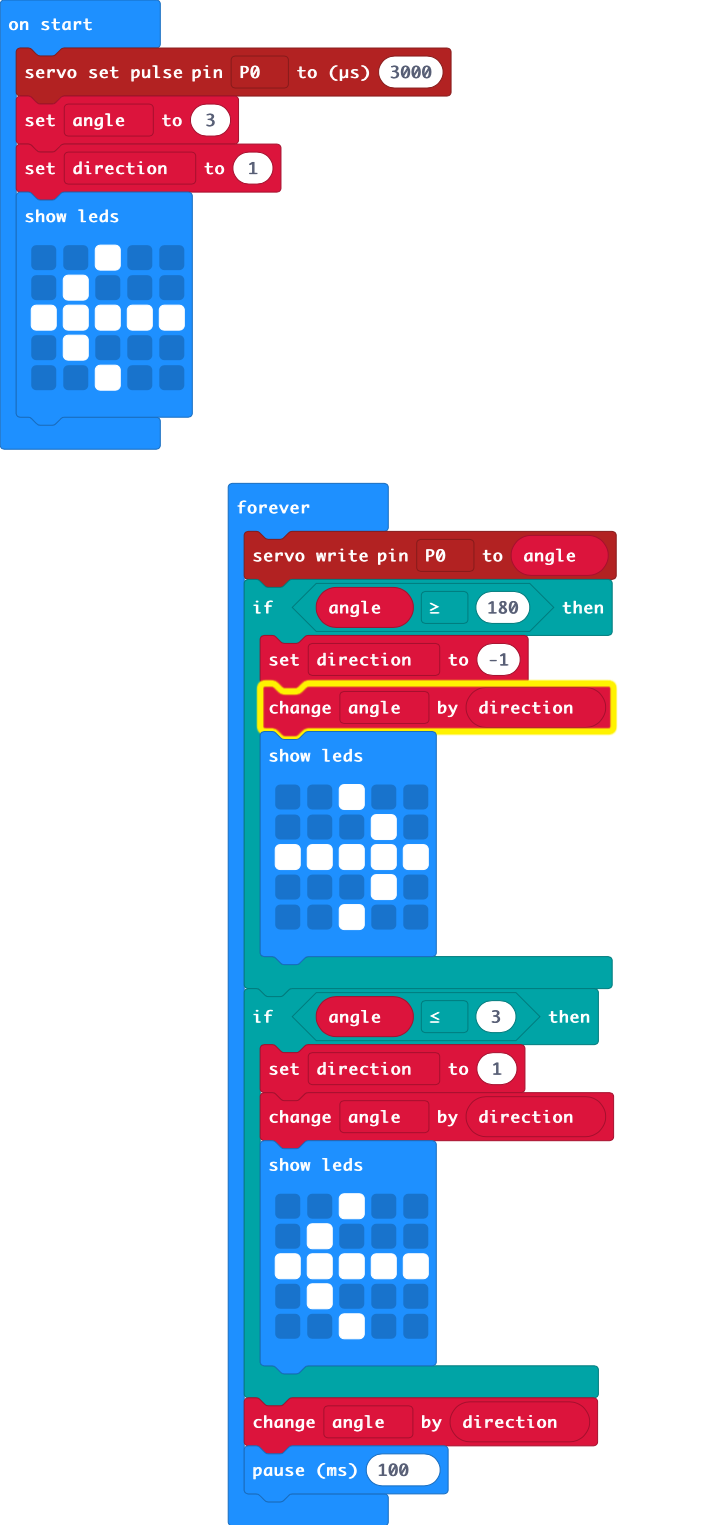
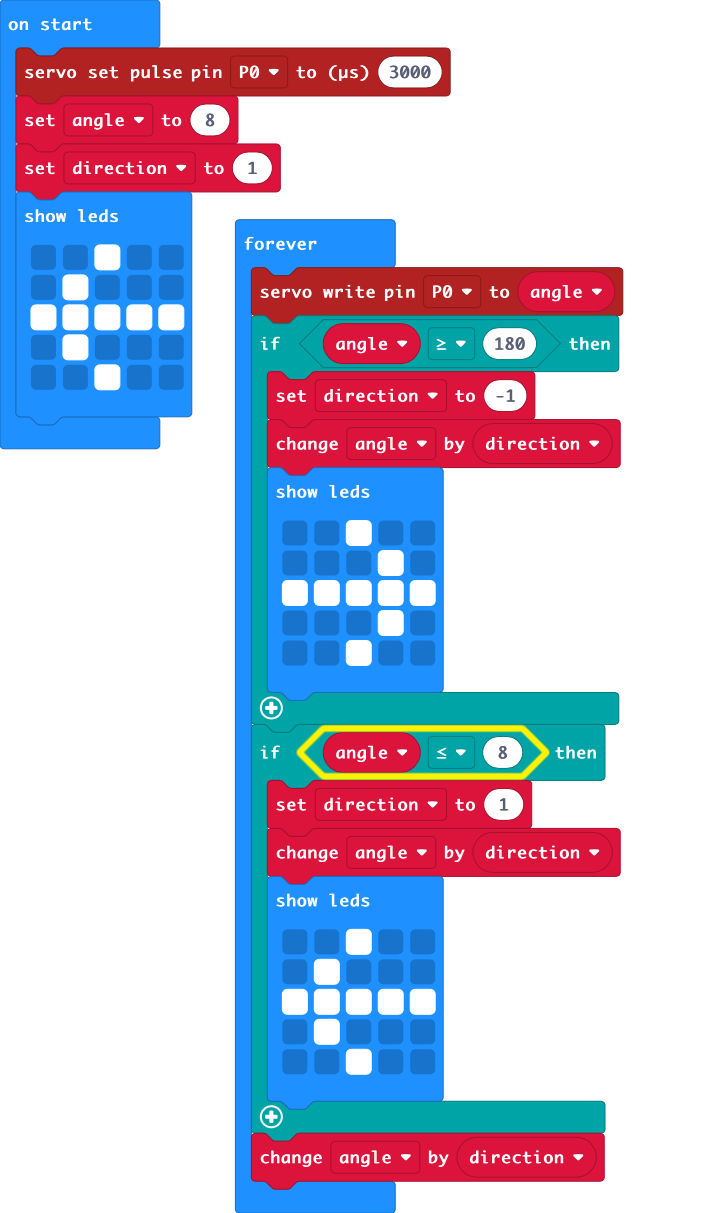
Update main.blocks, main.ts

diff --git a/main.ts b/main.ts
@@ -1,5 +1,5 @@
 pins.servoSetPulse(AnalogPin.P0, 3000)
-let angle = 3
+let angle = 8
 let direction = 1
 basic.showLeds(`
     . . # . .
@@ -21,7 +21,7 @@ basic.forever(function () {
             . . # . .
             `)
     }
-    if (angle <= 3) {
+    if (angle <= 8) {
         direction = 1
         angle += direction
         basic.showLeds(`
@@ -33,5 +33,4 @@ basic.forever(function () {
             `)
     }
     angle += direction
-    basic.pause(100)
 })
